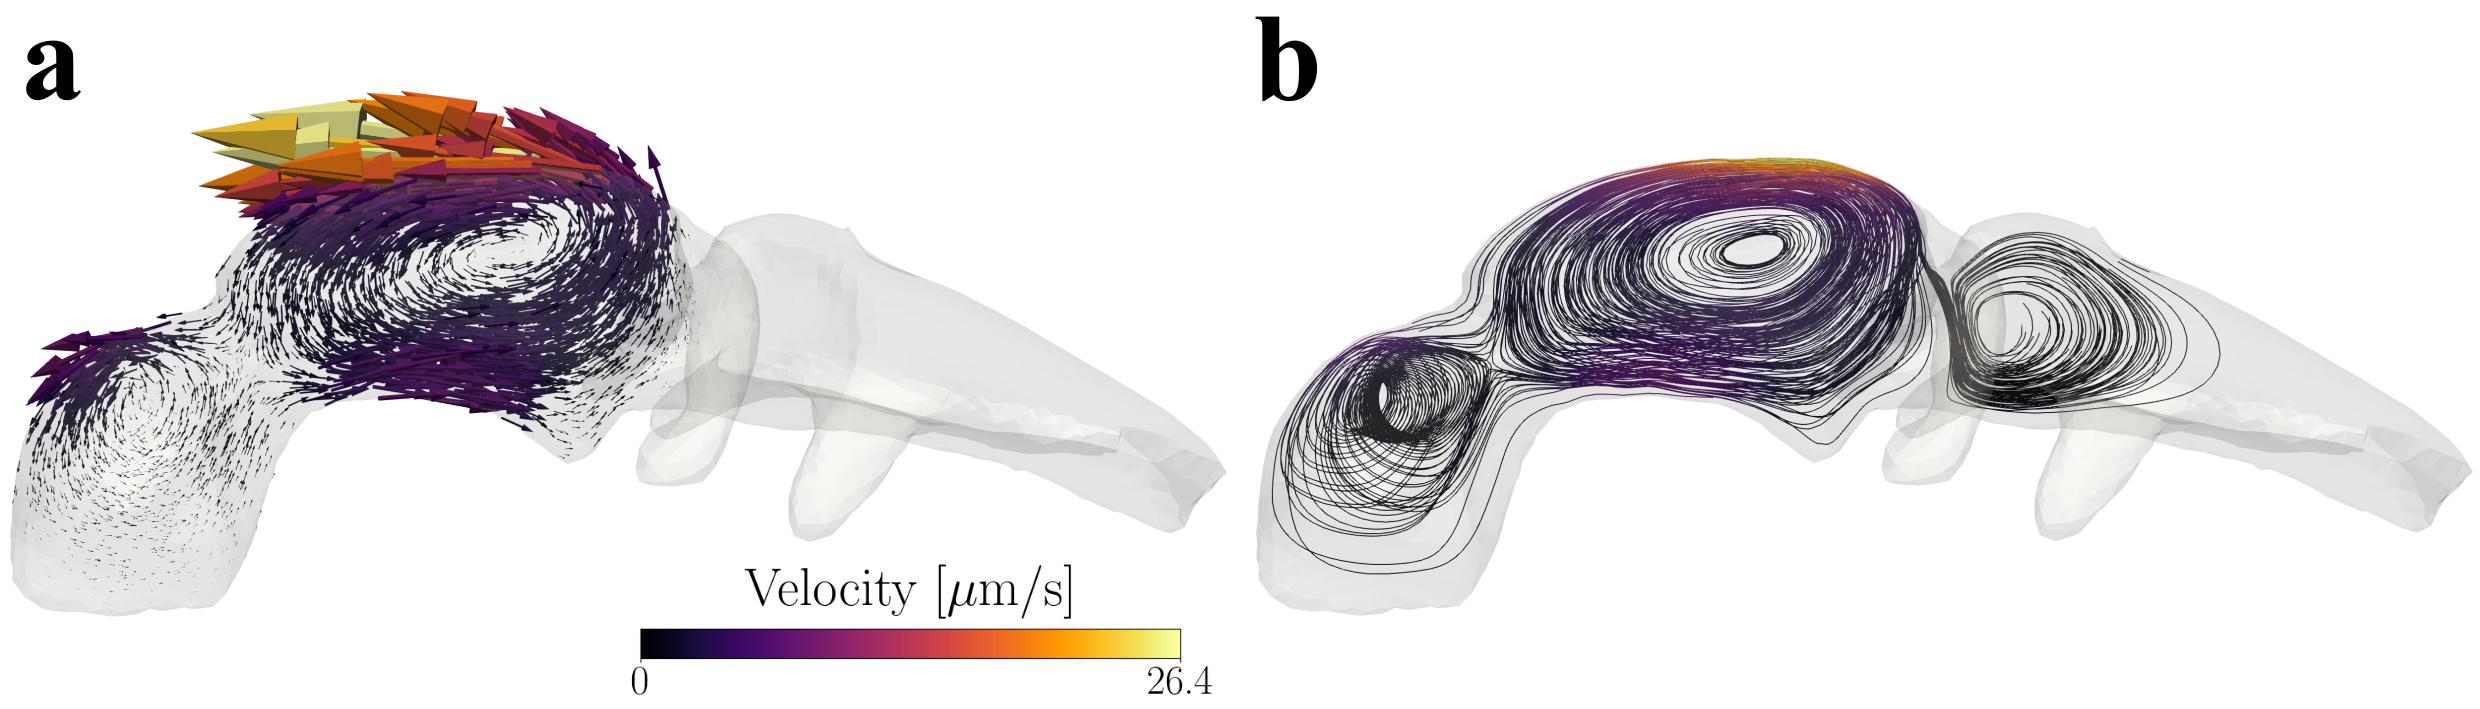
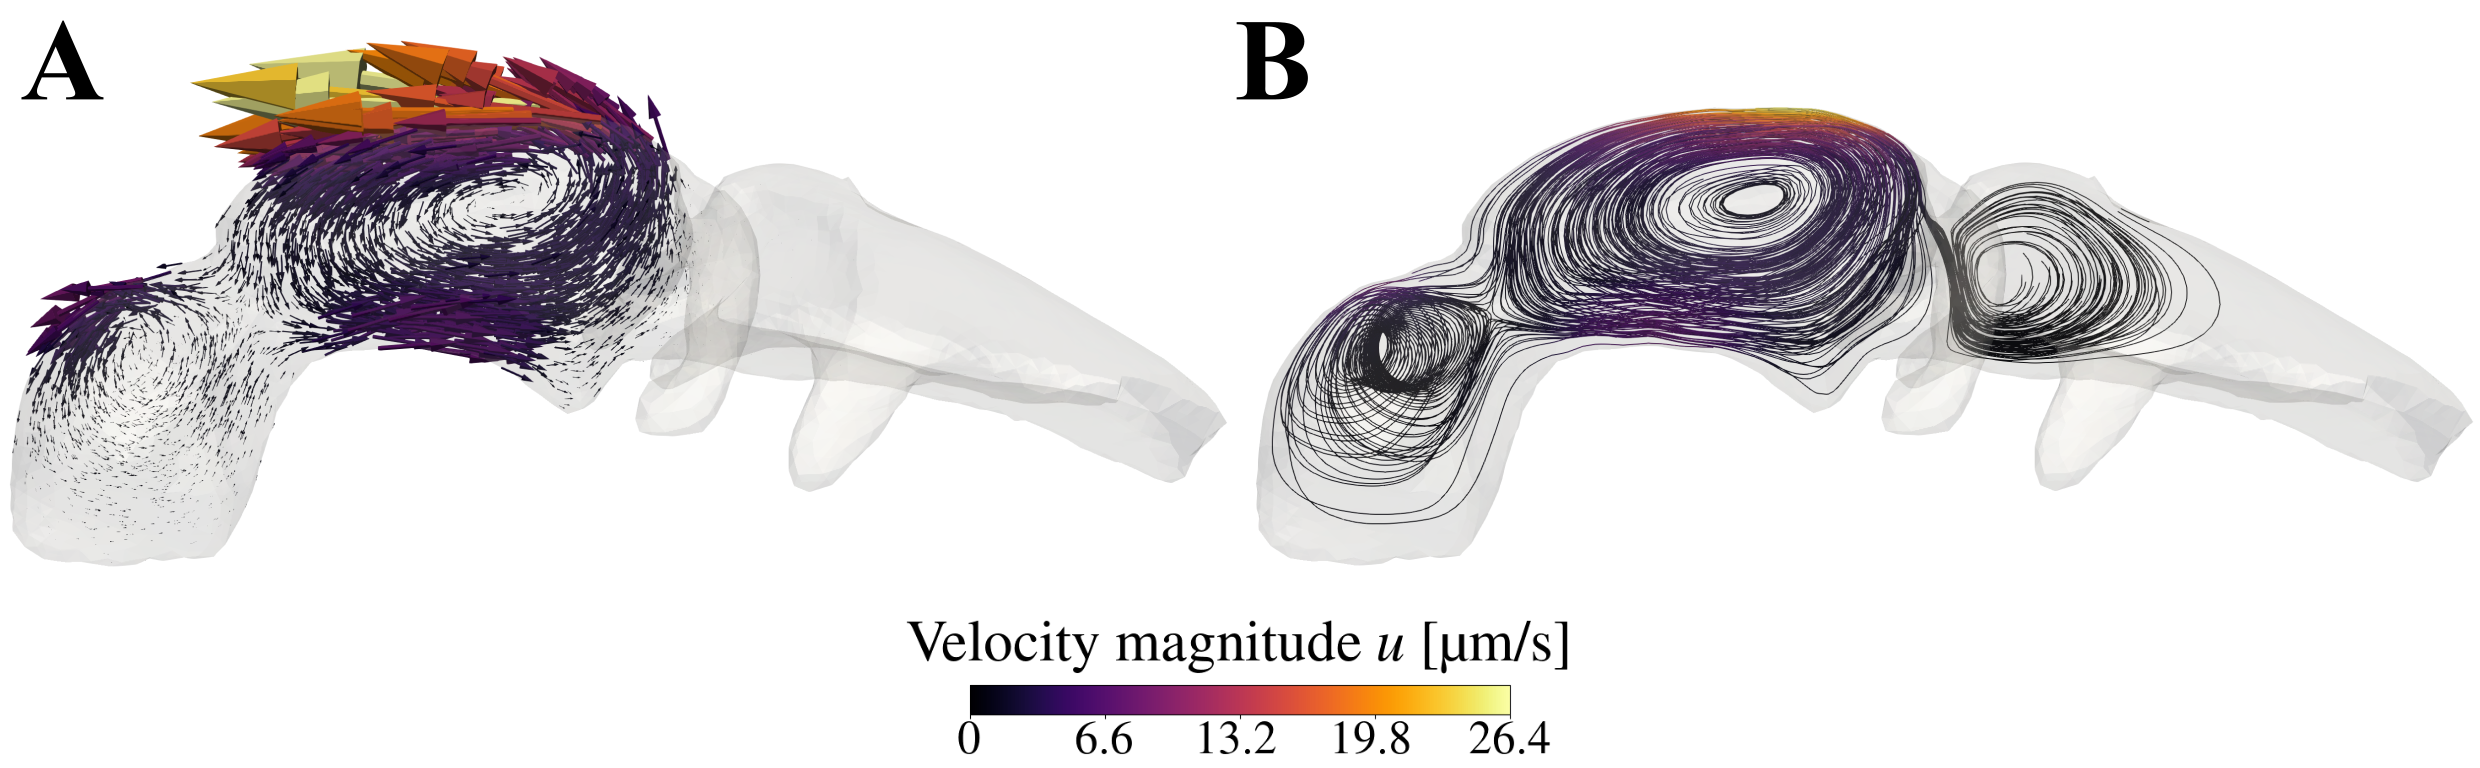
streamline results section

diff --git a/paper/main.tex b/paper/main.tex
@@ -181,18 +181,19 @@ Lagrangian analysis in furthering our understanding of CSF flow.
 To study brain ventricular CSF flow and characterize coherent flow structures,
 we consider two brain ventricular geometries generated with medical imaging data
 (\Cref{fig:model_sketch}). One is the brain ventricular system of an adult human,
-which consists of the lateral, third and fourth ventricles (\Cref{fig:model_sketch}A).
+which includes of the lateral, third and fourth ventricles (\Cref{fig:model_sketch}A).
 The interventricular foramina connect the lateral ventricles to the third ventricle,
 while the cerebral aqueduct connects the third and fourth ventricles (\Cref{fig:model_sketch}A, B).
-The lateral apertures and the median aperture serve as exit routes for the CSF.
+In the lateral, third and fourth ventricles there are regions covered by choroid plexus tissue
+(\Cref{fig:model_sketch}A). The lateral apertures and the median aperture serve as exit routes for the CSF.
 To represent the human ventricular system, we use a computational mesh extracted
 from the brain mesh generated by Causemann~\emph{et al.}~\cite{Causemann2022HumanFramework}.
 Their brain mesh was originally generated using surface geometries based on MRI images.
 The standard version of the ventricles mesh consists of 408 128 tetrahedral cells
 with maximal and minimal edge lengths of 0.40 cm and 0.023 cm, respectively.
 
-The second geometry is embryonic zebrafish brain ventricles at two days post-fertilization
-(2 dpf, \Cref{fig:model_sketch}C).
+The second geometry represents embryonic zebrafish brain ventricles
+at two days post-fertilization (2 dpf, \Cref{fig:model_sketch}C).
 The surface geometry was in previous work generated with confocal
 microscopy~\cite{Olstad2019CiliaryDevelopment}. At 2 dpf, the zebrafish brain
 ventricular system consists of three cavities:
@@ -700,10 +701,12 @@ also for comparison with previous computational and clinical studies,
 we compute the following quantities:
 \begin{itemize}
     \item The volumetric CSF flow rate
-    $$ Q_{\mathrm{aq}}(t) = \int_{\Scal_{\mathrm{aq}}}\uu(\xx, t)\cdot\nn(\xx)\,\mathrm dS $$
-    over a cross section $\Scal_{\mathrm{aq}}$ in the cerebral aqueduct.
+    $$ Q(t) = \int_{\mathcal{C}}\uu(\xx, t)\cdot\nn(\xx)\,\mathrm dS $$
+    over different cross sections $\mathcal{C}$ in the interventricular foramina and cerebral aqueduct, 
+    as well as the outlets of the lateral apertures and median aperture.
 
-    \item The cumulative CSF flow volume in the aqueduct,
+    \item The cumulative CSF flow volume through the same cross sections
+    $\mathcal{C}$ in the aqueduct,
     median aperture, lateral apertures
     and interventricular foramina. The cumulative flow volume $V(t)$
     is computed by integrating the volumetric flow rate $Q(t)$
@@ -714,18 +717,24 @@ we compute the following quantities:
     and interventricular foramina. The stroke volume is the maximum (with respect
     to time) of the cumulative flow volume.
 
-    \item The peak-to-nadir mean pressure gradient, measured as the difference in
-    the maximum and minimum value of the mean pressure gradient $\Delta \overline{p}$
-    over a cardiac cycle. Here, the mean denotes the cross-sectional average
-    of the pressure:
-    $$\overline{p} = \frac{1}{|\mathcal{C}|}\int_{\mathcal{C}} p(\xx, t)\,\mathrm dS,$$
+    \item The peak-to-nadir mean pressure gradient in the cerebral aqueduct,
+    measured as the difference in the maximum and minimum value of
+    the mean pressure gradient $\Delta \overline{p}$ over a cardiac cycle.
+    Here, the mean denotes the cross-sectional average of the pressure:
+    $$\overline{p}(t) = \frac{1}{|\mathcal{C}|}\int_{\mathcal{C}} p(\xx, t)\,\mathrm dS,$$
     where $\mathcal{C}$ is a given cross section with area $|\mathcal{C}|$.
+    Moreover, the $\Delta$ signifies the change in the mean pressure over the
+    aqueduct length:
+    $$ \Delta \overline{p} = \frac{\overline{p}_{\mathrm{top}} - \overline{p}_{\mathrm{bottom}}}{L_{\mathrm{aq}}},$$
+    where ``top'' and ``bottom'' denote cross sections at the top and bottom of the aqueduct,
+    while $L_{\mathrm{aq}} = 23.5$ mm is the length that separates these cross sections.
+    % Diameter of top aqueduct cross section = 0.003312507931327408 m = 3.31 mm
 
     \item Maximum ($u_{\mathrm{max}}$) and minimum ($u_{\mathrm{min}}$)
     CSF velocity magnitudes over one cardiac cycle.
     At a given time $t$, the magnitude $u$ of the velocity vector
-    $\uu = (u_x, u_y, u_z)$ is 
-    $$ u = \sqrt{u_{x}^2 + u_{y}^2 + u_{z}^2}. $$
+    $\uu(\xx, t) = (u_x(\xx, t), u_y(\xx, t), u_z(\xx, t))$ is 
+    $$ u(\xx, t) = \sqrt{u_{x}^2 + u_{y}^2 + u_{z}^2}. $$
 \end{itemize}
 
 \subsection{Numerical methods}
@@ -740,9 +749,9 @@ brain ventricles is:
     \item Solve the elasticity equations for the brain tissue displacements $\ww(\xx, t)$
     and use $\ww$ to compute the wall displacement velocity $\dot{\ww}(\xx, t)$,
     which is used as a boundary condition in the CSF flow model
-    \item Solve the fluid equations to obtain the CSF velocity field $\uu(\xx, t)$
-    \item Use the velocity $\uu$ to compute quantities of interest
-    \item Use the velocity $\uu$ to compute FTLE fields
+    \item Solve the fluid equations to obtain the CSF velocity field $\uu(\xx, t)$ and pressure $p(\xx, t)$
+    \item Use the velocity $\uu(\xx, t)$ and pressure $p(\xx, t)$ to compute quantities of interest
+    \item Use the velocity $\uu(\xx, t)$ to compute FTLE fields
 \end{enumerate}
 The algorithm of the zebrafish model consists of steps 2 to 4.
 
@@ -860,9 +869,10 @@ For the Navier-Stokes equations, we solve the Stokes equations
 (with $\uu_0(\xx)=\bm{0}$) and use the solution
 $\uu_{\mathrm{Stokes}}(\xx)$ as initial condition;
 $\uu_0(\xx)=\uu_{\mathrm{Stokes}}(\xx)$. 
-The fluid equations are solved for two cardiac cycles,
-and the velocities $\uu(\xx, t)$ of the second cycle are used
-to calculate FTLE fields.
+To achieve periodic flow in the unsteady simulations, the fluid equations
+are solved for two cardiac cycles and the velocities $\uu(\xx, t)$
+of the second cycle are used to calculate FTLE fields.
+When reporting results, the start of this second cycle is defined as $t=0$.
 
 \subsubsection{FTLE field computation}
 To compute FTLE fields, we initiate a cartesian grid of fluid particles at a
@@ -918,6 +928,9 @@ in terms of magnitude; a volume change of $-0.16\%$ (contraction)
 that occurs 40\% throughout the cardiac cycle (\Cref{fig:flow_and_deformation_results}A).
 The greatest positive volume displacement (expansion) occurs right after
 the onset of the cardiac cycle, constituting 0.01\%.
+The lateral ventricles (LV) and the 3V are the main contributors to the volume
+change of the ventricular system. In comparison, the fourth ventricle (4V) volume
+changes are approximately a thousandth of the total volume change. 
 The maximum displacement magnitude of 0.046 mm 
 almost coincides with the largest volume displacement ($t=0.41$ s),
 and was observed superior to the lateral ventricles on the right side
@@ -964,18 +977,25 @@ ventricles are evenly distributed between the two foramina (\Cref{fig:flow_and_d
 \begin{figure}
     \centering
     \includegraphics[width=\textwidth]{graphics/flow_and_deformation_results.png}
-    \caption{\fixme{Reorder panels, cf. text.}
-    \textbf{A.} Volume dynamics of the ventricular system, third ventricle (3V)
-    and lateral ventricles (LV) over one cardiac cycle.
-    \textbf{B.} Applied displacement boundary conditions over four cardiac cycles.
-    The boundary condition magnitudes
-    are ramped up over two cardiac cycles with a cosine window applied to the first
-    cycle. The last cardiac cycle is where displacements are output to file for
-    subsequent use as boundary conditions in the fluid equations.
+    \caption{
+    \textbf{A.} Volume dynamics of the whole ventricular system, 
+    the third ventricle (3V) and the lateral ventricles (LV) over a cardiac cycle.
+    \textbf{B.} Illustration of the displacement boundary conditions
+    $\bm{g}(\xx, t)$ over a cardiac cycle
+    (defined by \Cref{eq:experimental_displacement_bc}
+    in \Cref{subsubsec:deformation}). The maximum magnitudes of
+    $\bm{g}(\xx, t)$ are plotted for the five boundary condition regions:
+    corpus callosum; caudate nucleus; lateral and third ventricle floor (LV/3V floor);
+    third ventricle medial and lateral walls (3V walls medial/lateral);
+    the inferior and occipital horns of the lateral ventricles (LV inf./occ. horns).
     \textbf{C--F.} Quantities of interest computed over one cardiac cycle:
-    Flowrate and pressure gradient in the cerebral aqueduct (\textbf{C}), as
-    well as cumulative flow volumes (\textbf{D}), mean pressures (\textbf{E}) and
-    flowrates (\textbf{F}) in different parts of the ventricular system.}
+    Flowrate $Q_{\mathrm{aq}}(t)$ and mean pressure gradient $\Delta\overline{p}(t)$
+    in the cerebral aqueduct (\textbf{C}); flowrates $Q(t)$ across cross sections
+    in different parts of the ventricular system (\textbf{D});
+    mean pressures $\overline{p}(t)$ (\textbf{E}); 
+    cumulative flow volumes $V(t)$ (\textbf{F}).
+    Common legend for panels \textbf{D} and \textbf{F}.
+    }
     \label{fig:flow_and_deformation_results}
 \end{figure}
 
@@ -1004,10 +1024,10 @@ by the Navier-Stokes equations.
     approximation. Note the distinct colorbar limit in each plot. 
     \textbf{B.} Navier-Stokes velocity vectors at times $t=0.25, 0.50, 0.75$ s in
     the human brain ventricles with zoomed-in view of  (bottom row).
-    \textbf{C.} Zoomed-in view (of the boxed region shown in panel \textbf{B})
-    of velocity vectors superior to the cerebral aqueduct entrance, both for
-    the Navier-Stokes and the Stokes solution, with notable differences
-    in flow features.
+    \textbf{C.} Zoomed-in view (of the box region shown in the left-most
+    subfigure of panel \textbf{B}) of velocity vectors superior to
+    the cerebral aqueduct entrance, both for the Navier-Stokes and
+    the Stokes solution, to highlight local differences in flow features.
     }
     \label{fig:3d_flow_results}
 \end{figure}
@@ -1038,7 +1058,7 @@ and lateral aperture stroke volumes when compared to DSC, with a similar decreas
 The median aperture stroke volume is less for both DS and DC compared to DSC, with 11\% and 12\% decreases for DS and DC,
 respectively. The pressure gradient peak-to-nadir is unaltered for both DC and DS.
 The maximal and minimal velocity magnitudes and flowrates change
-less than 4\% and 3\% for DC and DS, respectively.
+by less than 4\% and 3\% for DC and DS, respectively.
 
 \subsection{Motile cilia generate rotational flow in embryonic zebrafish brain ventricles}
 % Summarize zebrafish velocity field characteristics
@@ -1049,7 +1069,7 @@ As a result of the applied tangential
 traction being constant and the geometry being closed, this flow field is a steady-state solution.
 The maximum velocity magnitude is 26.4 $\mu$m/s.
 Streamlines of particles integrated forward in time show rotational particle trajectories
-(\Cref{fig:zfish_flow_results}, \textbf{b}). In \Cref{fig:zfish_flow_results}, particles
+(\Cref{fig:zfish_flow_results}, \textbf{B}). In \Cref{fig:zfish_flow_results}, particles
 are seeded in the anterior, middle and posterior ventricles, and the three rotational
 structures originate from each of the particle seeding locations. Only seeding particles
 in e.g. the anterior ventricle would result in streamlines almost exclusively confined 
@@ -1057,11 +1077,11 @@ to the anterior ventricle, with only few particles crossing through the interven
 \begin{figure}
     \centering
     \includegraphics[width=\textwidth]{graphics/zfish_flow.png}
-    \caption{\textbf{a.} Velocity vectors scaled by magnitude.
-    \textbf{b.} Streamlines of particles integrated forward in time,
+    \caption{\textbf{A.} Velocity vectors scaled by magnitude.
+    \textbf{B.} Streamlines of particles integrated forward in time,
     with particles seeded in the anterior,
     middle and posterior ventricles.
-    Common colorbar for \textbf{a} and \textbf{b}.
+    Common colorbar for \textbf{A} and \textbf{B}.
     }
     \label{fig:zfish_flow_results}
 \end{figure}
@@ -1150,7 +1170,7 @@ in the Navier-Stokes solution. Similarly, the repelling structures are more
 extensive in the Navier-Stokes FTLE fields.
 \begin{figure}
     \centering
-    \includegraphics[width=0.85\textwidth]{graphics/FTLE_human3.png}
+    \includegraphics[width=0.75\textwidth]{graphics/FTLE_human3.png}
     \caption{Sagittal slices of FTLE fields computed in the human brain ventricles
     using the unsteady Stokes equations (\textbf{A})
     and the Navier-Stokes equations (\textbf{B})
@@ -1167,12 +1187,13 @@ The FTLE fields computed in the third ventricle with the DC and DS models
 are generally comparable to the DSC results, with the formation of
 a vortex ring (\Cref{fig:FTLE_human4}).
 When excluding secretion (DC model), the leading edge of the vortex
-advances slightly faster. Meanwhile, excluding cilia (DS model)
-makes the forward-time FTLE field less attached to the ventricular
-walls close to the aqueductal entrance.
+advances slightly faster (\Cref{fig:FTLE_human4}A).
+Meanwhile, excluding cilia (DS model) makes the forward-time FTLE field
+less attached to the ventricular walls close to the aqueductal entrance
+(\Cref{fig:FTLE_human4}B).
 \begin{figure}
     \centering
-    \includegraphics[width=0.85\textwidth]{graphics/FTLE_human4.png}
+    \includegraphics[width=0.75\textwidth]{graphics/FTLE_human4.png}
     \caption{Sagittal slices of FTLE fields computed in the human brain ventricles
     using the DC model (\textbf{A}, no secretion)
     and DS model (\textbf{B}, no cilia)
@@ -1181,7 +1202,7 @@ walls close to the aqueductal entrance.
     In both subpanels, forward-time FTLE are displayed in the left
     column while backward-time FTLE are displayed in the right columnn.
     }
-    \label{fig:FTLE_human3}
+    \label{fig:FTLE_human4}
 \end{figure}
 
 \subsection{FTLE fields demonstrate brain ventricular flow compartmentalization in zebrafish embryos}

diff --git a/src/plot_deformation.py b/src/plot_deformation.py
@@ -12,9 +12,11 @@ params = {
     "xtick.labelsize" : 46,
     "ytick.labelsize" : 46,
     "font.family" : "serif",
+    "font.serif" : ["Serif"],
     "text.usetex" : True,
     "axes.labelpad" : 14.0,
-    "legend.frameon" : False
+    "legend.frameon" : False,
+    "text.latex.preamble": r"\usepackage{mathptmx}"
 }
 plt.rcParams.update(params)
 
@@ -53,21 +55,25 @@ volumes = np.load(data_dir+f"volumes.npz")
 volumes_tot = (volumes['volumes_tot']-1.0)*100
 volumes_LV  = (volumes['volumes_LV']-1.0)*100
 volumes_3V  = (volumes['volumes_3V']-1.0)*100
-# volumes_4V  = (volumes['volumes_4V']-1.0)*100
+volumes_4V  = (volumes['volumes_4V']-1.0)*100
 
 # Print information
 print(f"Max total volume displacement [%]: {np.max(volumes_tot):.2f}")
 print(f"Time of max total volume displacement [s]: {np.argmax(volumes_tot)*timestep:.3f}")
 print(f"Min total volume displacement [%]: {np.min(volumes_tot):.2f}")
 print(f"Time of min total volume displacement [s]: {np.argmin(volumes_tot)*timestep:.3f}")
-print(f"Max 3V volume displacement [%]: {np.max(volumes_3V):.2f}")
-print(f"Time of max 3V volume displacement [s]: {np.argmax(volumes_3V)*timestep:.3f}")
-print(f"Min 3V volume displacement [%]: {np.min(volumes_3V):.2f}")
-print(f"Time of min 3V volume displacement [s]: {np.argmin(volumes_3V)*timestep:.3f}")
 print(f"Max LV volume displacement [%]: {np.max(volumes_LV):.2f}")
 print(f"Time of max LV volume displacement [s]: {np.argmax(volumes_LV)*timestep:.3f}")
 print(f"Min LV volume displacement [%]: {np.min(volumes_LV):.2f}")
 print(f"Time of min LV volume displacement [s]: {np.argmin(volumes_LV)*timestep:.3f}")
+print(f"Max 3V volume displacement [%]: {np.max(volumes_3V):.2f}")
+print(f"Time of max 3V volume displacement [s]: {np.argmax(volumes_3V)*timestep:.3f}")
+print(f"Min 3V volume displacement [%]: {np.min(volumes_3V):.2f}")
+print(f"Time of min 3V volume displacement [s]: {np.argmin(volumes_3V)*timestep:.3f}")
+print(f"Max 4V volume displacement [%]: {np.max(volumes_4V):.5f}")
+print(f"Time of max 4V volume displacement [s]: {np.argmax(volumes_4V)*timestep:.5f}")
+print(f"Min 4V volume displacement [%]: {np.min(volumes_4V):.5f}")
+print(f"Time of min 4V volume displacement [s]: {np.argmin(volumes_4V)*timestep:.5f}")
 
 # Plot
 times = np.arange(1001)*timestep
@@ -90,7 +96,7 @@ ax_vol.plot(times, volumes_3V, color=vol_colors[2], label="3V volume")
 [ax.legend() for ax in [ax_vel, ax_vol]]
 ax_bcs.legend(loc='lower right', ncols=2)
 
-ax_bcs.set_ylabel("Displacement [mm]")
+ax_bcs.set_ylabel("Displacement magnitude [mm]")
 ax_vel.set_ylabel("Velocity [mm/s]")
 ax_vol.set_ylabel(r"Volume change [\%]")
 [ax.set_xlabel('Time [s]') for ax in [ax_bcs, ax_vel, ax_vol]]

diff --git a/src/plot_flow.py b/src/plot_flow.py
@@ -12,9 +12,11 @@ params = {
     "xtick.labelsize" : 54,
     "ytick.labelsize" : 54,
     "font.family" : "serif",
+    "font.serif" : ["Serif"],
     "text.usetex" : True,
     "axes.labelpad" : 14.0,
-    "legend.frameon" : False
+    "legend.frameon" : False,
+    "text.latex.preamble": r"\usepackage{mathptmx}"
 }
 plt.rcParams.update(params)
 
@@ -95,7 +97,7 @@ fig3, ax3 = plt.subplots(figsize=figsize, constrained_layout=True)
 fig4, ax4 = plt.subplots(figsize=figsize, constrained_layout=True)
 
 # Plot flowrate and pressure gradient in the aqueduct
-ax.plot(times, flowrates_aq, color=flowrate_colors[0], linestyle=linestyles[ls_idx], label=r"$\dot{V}$ "+label_end)
+ax.plot(times, flowrates_aq, color=flowrate_colors[0], linestyle=linestyles[ls_idx], label=r"$Q_{\mathrm{aq}}$ "+label_end)
 ax_.plot(times, pressure_gradients_aq, color=deltap_colors[2], linestyle=linestyles[ls_idx+1],
          marker='^', markevery=me, label=r"$\Delta \overline{p}$ "+label_end)
 
@@ -133,14 +135,14 @@ ax4.plot(times, pressures_lfm, color=deltap_colors[2], linestyle=linestyles[ls_i
 
 # Configure plots
 ax.legend(loc='upper right', bbox_to_anchor=(0.75, 1))
-ax_.legend(loc='upper right', bbox_to_anchor=(0.78, 0.90))
-ax.set_ylabel('Aqueductal flowrate [ml/s]', labelpad=0)
-ax_.set_ylabel('Pressure grad. [mmHg/cm]', color=deltap_colors[2], labelpad=0)
+ax_.legend(loc='upper right', bbox_to_anchor=(0.74, 0.90))
+ax.set_ylabel(r'Aqueduct flowrate $Q_{\mathrm{aq}}$ [ml/s]', labelpad=0)
+ax_.set_ylabel(r'Press. grad. $\Delta\overline{p}$ [mmHg/cm]', color=deltap_colors[2], labelpad=0)
 ax_.tick_params(axis='y', colors=deltap_colors[2])
-ax2.set_ylabel('Flowrate [ml/s]')
+ax2.set_ylabel(r'Flowrate $Q$ [ml/s]')
 ax2.legend(loc='upper right', bbox_to_anchor=(1, 1.05))
-ax3.set_ylabel(r'Cumulative flow volume [$\mu$l]')
-ax4.set_ylabel('Mean pressure [mmHg]', labelpad=0)
+ax3.set_ylabel(r'Cumulative flow vol. $V$ [\textmu l]')
+ax4.set_ylabel(r'Mean pressure $\overline{p}$ [mmHg]', labelpad=0)
 ax4.legend(loc='upper right')
 [axes.set_xlabel('Time [s]') for axes in [ax, ax2, ax3, ax4]]
 

diff --git a/src/plot_colorbar.py b/src/plot_colorbar.py
@@ -6,7 +6,7 @@ import colormaps
 # Set matplotlib properties
 plt.rcParams.update({
     "font.family" : "serif",
-    "font.serif" : ["Times New Roman"],
+    "font.serif" : ["Serif"],
     "text.usetex" : True,
     "text.latex.preamble": r"\usepackage{mathptmx}"
 })
@@ -28,19 +28,19 @@ if __name__=='__main__':
         
         cmap = cmap.resampled(n_colors)
         cb = matplotlib.colorbar.ColorbarBase(ax, cmap=cmap, orientation='horizontal')
-        cb_max = 0.1 # 26.4
-        # cb.set_ticks([0, 0.25, 0.5, 0.75, 1.0])
-        cb.set_ticks([0, 1.0])
-        # cb.set_ticklabels([0,
-        #                    f"{0.25*cb_max:.2g}",
-        #                    f"{0.50*cb_max:.2g}",
-        #                    f"{0.75*cb_max:.2g}",
-        #                    f"{cb_max:.3g}"])
-        cb.set_ticklabels(["Low", "High"])
-        ax.tick_params(axis='x', labelsize=35)
-        ax.set_title(r"Backward FTLE value", fontsize=46, pad=20.0)
-        # ax.set_title(r"Velocity [$\mu$m/s]", fontsize=46, pad=20.0)
-        fig_name = f"../output/illustrations/colorbars/{orientation}_colorbar_{cmap_name}_low_high.png"
+        cb_max = 0.25 #human A3: 0.025 #human A2: 0.25 #human A1: 8.0 #human B: 7.5 #zfish: 26.4
+        cb.set_ticks([0, 0.25, 0.5, 0.75, 1.0])
+        # cb.set_ticks([0, 1.0])
+        cb.set_ticklabels([0,
+                           f"{0.25*cb_max:.2g}",
+                           f"{0.50*cb_max:.2g}",
+                           f"{0.75*cb_max:.2g}",
+                           f"{cb_max:.2g}"])
+        # cb.set_ticklabels(["Low", "High"])
+        ax.tick_params(axis='x', labelsize=40)
+        # ax.set_title(r"Backward FTLE value", fontsize=46, pad=20.0)
+        ax.set_title(r"$u$ [cm/s]", fontsize=50, pad=20.0)
+        fig_name = f"../output/illustrations/colorbars/{orientation}_colorbar_{cmap_name}_A2.png"
 
     fig.tight_layout(pad=0)
     fig.savefig(fig_name, bbox_inches=[])
